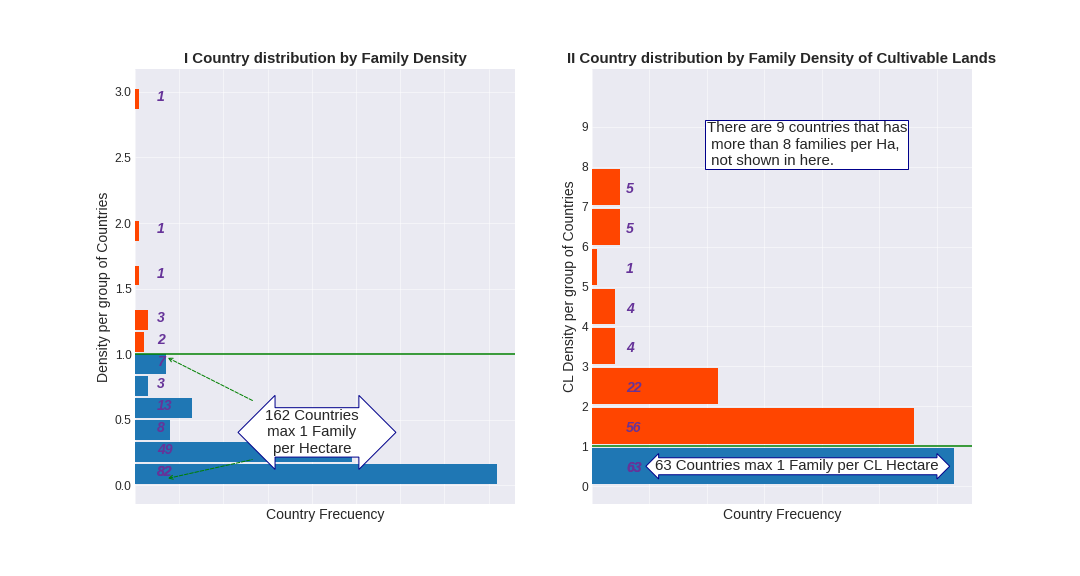
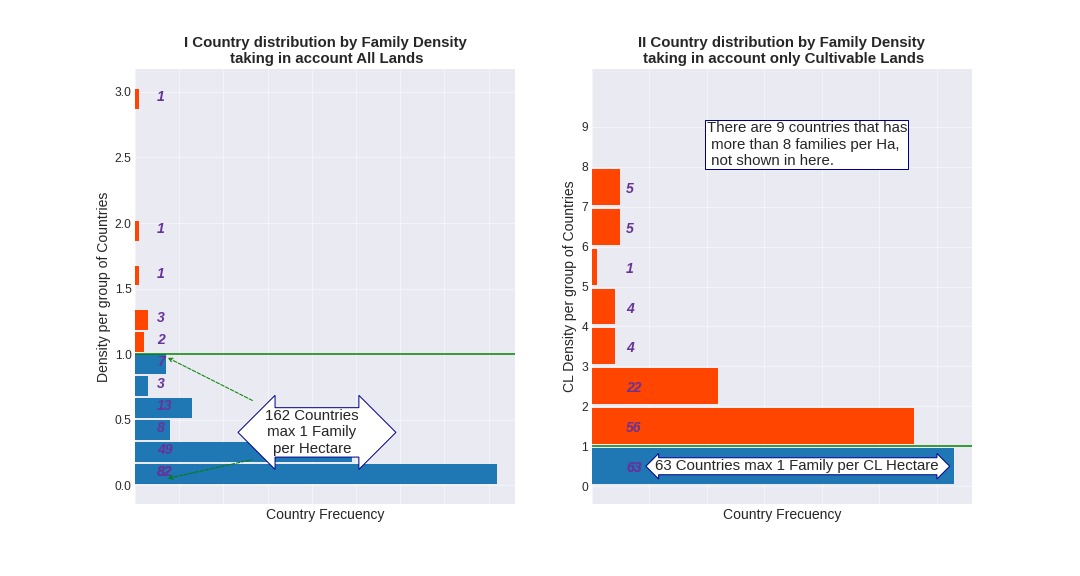
abs6

Changed region(s): [[0.5194, 0.0625, 0.9167, 0.125], [0.1528, 0.0625, 0.4278, 0.125]]

diff --git a/Abstract.md b/Abstract.md
@@ -9,22 +9,23 @@
     - Theories
     - Question
     - Facts
-        - CL% Distribution per country.
-        - Population Density and CL Density.
-        - HpF and Perm_indicator per geographic region.
+        - Cultivable Land (CL) Distribution per country.
+        - Population Density and Cultivable Land Density.
+        - Hectare per Family and Perm_indicator per geographic region.
         
     - Conclusions
+    - Annexes
   
 - **Objectives**
-    - To show the distribution of land suitable for cultivation (CL), according to the data taken from the [UN Data Bases](https://data.un.org/) (United Nations records); using the latitud and longitud data of the countries listed in the geopandas library.
-    - To use the Python libraries for handle/shape/extract/order the correspondent data used for this study.
+    - Show the distribution of land suitable for cultivation (CL), according to the data taken from the [UN Data Bases](https://data.un.org/) (United Nations records); using the latitud and longitud data of the countries listed in the geopandas library.
+    - Use the Python libraries for handle/shape/extract/order the correspondent data used for this study.
 
 - **Preliminary considerations**
-    - The study takes into account the data of 170 countries. The rest of them were neglected since there is not enough stadisted data.
+    - The study takes into account the data of 170 countries. The rest of them were neglected since there is not enough statistic data.
     - Missing data from the UN records was taken from the FAO (Food and Agriculture Organism); and therefore calculated (p.ex. percentages values) from complementary values for indicators defined in this study.
     - The land is classified in four groups, and some of them could be intersected. For the purpose of this study this is not considered. Each group is independent of any other.
     - This study neglects any food that could be obtained from permanent pastures and waterbodies present in an inland surface, like lakes, ponds or rivers. Hence, fishing activities and permanent grazing has not been taken into account.
-    - Since the main objective of the study is to show the graphic benefits and possible analyzes using python tools, it is HIGHLY RECOMMENDED to review other assessments performed by the FAO in order to acquire a better understanding of the subject. [FAO](http://www.fao.org/home/en/)
+    - Since the main objective of the study is to show the graphic benefits and possible analyzes using python tools, it is recommended to review other assessments performed by the FAO in order to acquire a better understanding of the subject. [FAO](http://www.fao.org/home/en/)
     
 - **Introduction**
     - The UN (United Nations) classifies the lands in five types:
@@ -80,25 +81,25 @@ For this, we defined three main indicators created for this study:
 |:----|:-----|:-----|:-----:|
 | 1 *Cultivables Lands (CL)*|Lands **already** intended to be <br>planted and doing grazing.|<img src="https://latex.codecogs.com/svg.latex?\Large&space;CL=AL+PC" title="CL" width='60%' height='60%'/>|Where<br> AL: Arable Lands <br>PC: Permanents Crops|
 | 2 *Permaculture Indicator (Perm_ind)*| Minimun amount of land needed <br>per family. **It's a fix value.**|<img src="images/PI.png" alt="PI" title="PI" width='40%' height='40%'/>|Ha (acronym for Hectare),<br> and it's a constant fixed reference value.|
-| 3 *Hectares per Family (HpF)*| Calculated CL land per family |<img src="https://latex.codecogs.com/svg.latex?\Large&space;HpF=\frac{CL}{Family}" title="HpF" width='60%' height='60%'/>|Where <br>CL: Cultivables Lands. <br>Family: generalized to 4 people group|
+| 3 *Hectares per Family (HpF)*| Calculated CL land per family |<img src="https://latex.codecogs.com/svg.latex?\Large&space;HpF=\frac{CL}{Family}" title="HpF" width='60%' height='60%'/>|Where <br>CL: Cultivables Lands. <br>Family: group of 4 people.|
 
 - **The facts**  
     
 The data about population and geographic coordenates is taken from the [geopandas](https://geopandas.org/) library wich is already classified by geographic region and country. <br>The data about land distributions was taken and processed from the United Nations statistics database [UNstatistics](https://data.un.org/).
 <br>And the data of the geographic world regions is taken from the [Cartopy pakages](https://scitools.org.uk/cartopy/docs/latest/).
 
-In the next table, there are showed the previous indicators for the the whole world.
+In the next table, there are showed the previous indicators for the whole world.
 
 Table 4. Indicator values.
     
 |About Population|About CL|Permaculture Indicator (Perm_ind)|
 |:--------:|:---------:|:---------:|
 |**There are aprox. <code style="color:red">1.8</code> milliards of <br>families in the whole world**.|**There are <code style="color:red">1.6</code> milliards of hectares of <br>Cultivable Lands.**|**There are <code style="color:red">0.87</code> Ha per Famlily in average, that's means <code style="color:red">0.13</code> Ha under the Perm_ind.**|
-|The world population is about seven milliards of people (7.354.181.594). Divided by families, we'll obtain<br> the stimated number of families (of 4) in entire world: <br><img src="https://latex.codecogs.com/svg.latex?\Large&space;Families=\frac{7.3^{9}}{4}=1.8^{9}" width='75%' height='75%' title="Families"/>|The absolutes values in thousand hectares of Cultivable Lands (CL) in the Earth are: <br><img src="https://latex.codecogs.com/svg.latex?\Large&space;CL=AL+PC" width='75%' height='75%' title="CL"/><br><img src="https://latex.codecogs.com/svg.latex?\Large&space;=1437111.05+165721.00\:Th\:Ha" width='75%' height='75%' title="HpF"/><br><img src="https://latex.codecogs.com/svg.latex?\Large&space;=1.6^{9}Ha" width='75%' height='75%' title="HpF"/>|In a world level, the quantity of Land per family in Hectares (HpF) is: <br><img src="https://latex.codecogs.com/svg.latex?\Large&space;HpF=\frac{1.6^{9}}{1.8^{9}}=0.8" width='75%' height='75%' title="HpF"/>|
+|The world population is about seven milliards of people (7.354.181.594). Divided by families, we'll obtain<br> the stimated number of families (of 4) in entire world: <br><img src="https://latex.codecogs.com/svg.latex?\Large&space;Families=\frac{7.3^{9}}{4}=1.8^{9}" width='75%' height='75%' title="Families"/>|The absolutes values in thousand hectares of Cultivable Lands (CL) in the Earth are: <br><img src="https://latex.codecogs.com/svg.latex?\Large&space;CL=AL+PC" width='75%' height='75%' title="CL"/><br><img src="https://latex.codecogs.com/svg.latex?\Large&space;=1437111.05+165721.00\:Th\:Ha" width='75%' height='75%' title="HpF"/><br><img src="https://latex.codecogs.com/svg.latex?\Large&space;=1.6^{9}Ha" width='75%' height='75%' title="HpF"/>|In a world level, the quantity of Land per family in Hectares (HpF) is: <br><img src="https://latex.codecogs.com/svg.latex?\Large&space;HpF=\frac{1.6^{9}}{1.8^{9}}=0.87" width='75%' height='75%' title="HpF"/>|
 
 <b>CL% Distribution per country.</b>
 
-As it's predictable, this distribution varies for every world region and country. Since every country has a different land area, the best way to compare this indicator between differents countries is to use the relative value of cultivable lands(CL); this means, the percentage of CL per country (CL%), as is showed in the next map.<a href="code_images/CL.ipynb" target="_blank">(code from the image)</a>
+As it's predictable, this distribution varies for every world region and country. Since every country has a different land area, the best way to compare this indicator between differents countries is to use the relative value of cultivable lands(CL); this means, the percentage of CL per country (CL%), as it is shown in the next map.<a href="code_images/CL.ipynb" target="_blank">(code from the image)</a>
 
 Figure II. World map of CL%.
 
@@ -125,12 +126,12 @@ An overall view show us that:
 
 It's important to notice that the CL% of each country has <b>no direct relation with the geographic region where they belong</b>; even in countries that may have the same climate characteristics, this percentage could strongly variate. Therefore, it'll be neccessary to search more information about the specific political/economical/historic situation of every country for probably understand this differences; out of the objective of this abstract.
     
-But knowing the country percentage CL takes meaning only if it’s related with the population.
+But knowing the country percentage CL make sense only if it’s related with the population.
 
 <b>Population Density and CL Density.</b>
 
 As we know, there is a relation between the population and the land area of the country; and it's not a constant one. This means, the density of the population could totally differ in countries with the same area.
-In the next histogram charts, this concept it's applied to every country, but relative to the Cultivable Lands. 
+In the next histogram charts, this concept is applied to every country, but relative to the Cultivable Lands. 
 
 In equation mode:
 
@@ -142,48 +143,47 @@ In equation mode:
 
 Let’s see how is this distribution per country/region.
 
-Figure IV. Density population and Density population repect CL.
+Figure IV. Density population and Density population respect to CL.
 <br><a href="code_images/hist_dens.ipynb">(code from the histograms below)</a>
 
 <img src="images/hist_dens.png" alt="hist_dens" title="hist_dens"/>
     
 
 
-In both histograms, there is a green line at the Y-axis level of 1 . This is the chosen reference value and means 1 Family per 1 Hectare (Perm_indicator).
+In both histograms, there is a green line at the Y-axis level of 1.
 
-The Y-axis represents the Family density per Ha, and the X-axis the number of accumulate countries; then, the purple numbers over the bars are the closter of countries for an specific 'y' range.
+The Y-axis represents the Family density per Ha, and the X-axis the number of accumulate countries; then, the purple numbers over the bars are the number of countries for an specific 'y' range.
 
-This means, that all the countries that are under the 1 Y-axis reference, has less that 1 family per Ha. According to the Permaculture Theory, is the best case. As this indicator grows over 1, the CL land is not enough for the theory requirements.
+This means, that all the countries that are under the 1 Y-axis reference, has less that 1 family per Ha. According to the Permaculture Theory, this is the best case. As this indicator grows over 1, the CL land is not enough for the theory requirements.
 
 In the case of the left histogram, this reference (1 Y-axis) is put in order to have an idea of the family density referenced to the entire land per country. In the right one, it has to be taken as the Perm_indicator, because the family density is calculated according the country Cultivable Lands.
 
-Hence, for both histogram is taken that:
-<br>- In the left one, there are 161 countries under the 1 Y-axis reference. So, even if it's taken all the contry land for Cultivable purposes, there are 9 countries heavely populated; that has not even 1 Ha per family. This 161 represent the 95% of the world countries.
-<br>- From the right one, there are just 63 countries that has at max 1 family per CL in Hectare, this are 37% of the world countries.
+Hence, for both histogram, it is noticed that:
+<br>- In the left one, there are 161 countries under the 1 Y-axis reference. So, even if it's taken all the country land for Cultivable purposes, there are 9 countries heavely populated; that has not even 1 Ha per family. This 161 represent the 95% of the world countries.
+<br>- From the right one, there are 63 countries that has no more than 1 family per CL in Hectare, this are 37% of the world countries.
 <br>- It could be thought that there is enough land per country that could be used for Cultivable purposes, but it's important to have in mind that <b>it's impossible to use all the country land for Cultivable purpouses </b>for many reasons: p.ex. geographical ones (there are mountains, deserts, swamps that makes impossible to be used for this), there are urban areas and industries necessary to sustain the development of the country, etc.
 
-If we zoom in the countries (down histogram of Family Density by CL), we see that from this 63 countries in the world that are under the limit of the Perm_ind: 
+Let's zoom in the 63 countries that are under the limit of the Perm_ind (histogram below of Family Density by CL).
 
 Figure V. Density population of CL.
 <br><a href="code_images/hist_dens_CL.ipynb" target="_blank">(code from the histogram below)</a>
 <img src="images/hist_dens_CL.png" alt="hist_dens_CL" title="hist_dens_CL"/>
 
-It can be taken that:
-- 9 countries (5% of the total country world) has max 0.33 Families per Ha. See next graph.
+From this we can see that:
+- 9 countries (5% of the total country world) has max 0.33 Families per Ha. This means, that it would be possible to have two more families per Hectare that they have; as it's shown in the next figures.
     <img src="images/example_fam.png" alt="example_fam" title="example_fam" width=70% height=70%/>
     
-- Consequentelly, 20 countries (17%), between 0.33 and 0.67Ha; and finally 34 countries (37%), between 0.67Ha and 1Ha. 
-- This is, <b> just the 37% of the countries has at least 1Ha per Family</b>.
+- 20 countries (17%), between 0.33 and 0.67Ha; and finally 34 countries (37%), between 0.67Ha and 1Ha. 
+- <b> Just 37% of the world countries has at least 1Ha per Family</b>.
 
 <b>HpF and Perm_indicator per geographic region.</b>
 
-<i>Note: Notice tha HpF (Hectares per Family) is inversely proportional to CL Density (Families per Hectare).
-The previous analysis was related to CL Density, from here on it'll talk about HpF.</i>
+<i>Note: Notice that HpF (Hectares per Family) is inversely proportional to CL Density (Families per Hectare).
+The previous analysis was related to CL Density, from here on the main subject will be HpF.</i>
 
-Finally, it's exposed the HpF referenced to the Per_indicator. This means, the Cultivable Lands per Family, referenced to 1Ha, distributed per geographic region and per country. 
+Next is exposed the HpF referenced to the Perm_indicator. This means, the Cultivable Lands per Family, referenced to 1Ha, distributed per geographic region and per country. 
 
-
-For the netx charts, the Geografich Region division will be used. This division groups the countries in 8 regions:
+For the next charts, the Geographic Region division will be used. This division groups the countries in 8 regions:
 
 Figure VI. Regions World Map.
 <table>
@@ -201,9 +201,9 @@ Figure VI. Regions World Map.
 </tbody>
 </table>
 
-To show the HpF of every country per region, it's used barplot. For each region – represented by differents colors -  there are bars over and under the y-axis reference : 1 Ha (Perm_ind).
+To show the HpF of every country per region, it's used a barplot. For each region – represented by differents colors -  there are bars over and under the y-axis reference : 1 Ha (Perm_ind).
 
-All the countries that are over the reference, have 1 or more Ha per family. For example, Australia (bars in light blue first to the left) has a bit more than 8 Ha per family; Kazakhstan a bit more than 6 ,and Canada ans South Sudan (S. Sudhan) just over 5 and 4 respectively. 
+All the countries that are over the reference, have 1 or more Ha per family. For example, Australia (bars in light blue first to the left) has a bit more than 8 Ha per family; Kazakhstan a bit more than 6, Canada and South Sudan (S. Sudhan) just over 5 and 4 respectively. 
 
 Additionally,  a small square per region is added with two numbers. This is the quantity of countries over (up-arrow) and under (down-arrow) this reference, per region <a href="code_images/ha_ref_w.ipynb" target="_blank">(code from the barplot below)</a>.
 
@@ -211,33 +211,32 @@ Additionally,  a small square per region is added with two numbers. This is the 
 
 <img src="images/ha_ref_w.png" alt="ha_ref" title="ha_ref"/>
 
-
-Consider that the values under the 1Ha reference, means the quantity of land per country needed to reach the Perm_ind.
+There are countries under and over the 1Ha. The ones that are over has more than the minimun land required to accomplish the theory; the others, are lacking lands.
 
 From this last histogram, it's noticed that:
 - Every region has a different behavior; there is no regular distribution by geographic region. 
-- There are some region with nearly half of the countries over the Perm_ind, like Europe & Central Asia and Sub-Saharan Africa. But due the fact that <b>all the countries of the same region has no the same land area and neither the same population</b>, it has no sense to think about a land redistribution in order to make all it's countries to reach the Perm_ind.
+- There are some region with nearly half of the countries over the Perm_ind, like Europe & Central Asia and Sub-Saharan Africa. But due to the fact that <b>all the countries of the same region doesn't have the same land area and neither the same population</b>, it has no sense to think about a land redistribution in order to make all the countries to reach the Perm_ind.
 - The South Asia region has no countries over the 1 Ha reference.
-- The higher value is in Australia, from Est Asia and Pacific, that has almost 8HpF. This region has the most noticed difference between their countries.
+- The higher value is in Australia, from Est Asia and Pacific, that has almost 8HpF. This region has the most noticeable difference between their countries.
 
-The next stacked barplot will help us to see the percentage of countries related to the Perm_ind, divided by Geographic Region.
+The next stacked barplot will help us see the percentage of countries related to the Perm_ind, divided by Geographic Region.
 
 
 
 <table>
 <tbody>
-<tr style='background-color:white'><td style="text-align:justify; font-size:14px; line-height: 1.5em">Figure IIX. Porcentual distribution of HpF per region.
+<tr style='background-color:white'><td style="text-align:justify; font-size:14px; line-height: 1.5em">Figure IIX. Percentage distribution of HpF per region.
 <br><a href="code_images/HpF_bars_w.ipynb" target="_blank">(code from the table below)</a>
-<img src="images/HpF_bars_w.png" alt="HpF_bars_w" width='4000px' height='400px'/></td><td style="text-align:justify; font-size:14px; line-height: 1.5em">The green bars represents the percentage of countries that has more than 1 HpF; in orange, less. As it's saw, most of them has less than the Permaculture requirement; there is just one region that is over to this value: North America. Europe & Central Asia and Sub-Saharan Africa has almost half of this countries over, followed in descending order by Latin America & Caribbean, East Asia & Pacific, Middle East & North Africa and finally South Asia.
+<img src="images/HpF_bars_w.png" alt="HpF_bars_w" width='4000px' height='400px'/></td><td style="text-align:justify; font-size:14px; line-height: 1.5em">The green bars represents the percentage of countries that has more than 1 HpF; in orange, less. As it is visible, most of them has less than the Permaculture requirement; there is just one region that is over to this value: North America. Europe & Central Asia and Sub-Saharan Africa has almost half of this countries over, followed in descending order by Latin America & Caribbean, East Asia & Pacific, Middle East & North Africa and finally South Asia.
 
 <br>
 
 - <b>Conclusions</b>:
     
     - How much land suitable for cultivation (CL) do we actually have in the Earth per human being?: 
-        - 0.8 Hectare per Family.
+        - 0.87 Hectare per Family.
     
-    - Making a huge and general calcule, the world needs 0.13 HpF to reach the minimun ammount of CL according to the chossen theory. This is equivalent to <img src="https://latex.codecogs.com/svg.latex?\Large&space;235^{6}Ha\:=0.2^{9}Ha" width="25%" height="25%" title="need"/>
+    - Making a huge and general calculus, the world needs 0.13 HpF to reach the minimun amount of CL according to the chosen theory. This is equivalent to <img src="https://latex.codecogs.com/svg.latex?\Large&space;235^{6}Ha\:=0.2^{9}Ha" width="25%" height="25%" title="need"/>
     - If we know that the total earth land is <img src="https://latex.codecogs.com/svg.latex?\Large&space;1.3^{10}Ha" width="15%" height="15%" title="earthsup"/> This missing value represent just the <code style="color:red">1.8%</code> of the earth land surface.</td>
 </tr>
 </tbody>
@@ -245,9 +244,9 @@ The next stacked barplot will help us to see the percentage of countries related
 
    - From the data, there is just 78% of the land classified (AL – 11%, PC – 1.3%, FC - 30.6% and IB - 35.1%). Theorically, it’ll be possible to take the 1.8% missing land from this 22% of unclassified land. We cannot forget the urban development; but according to differents sources (f. ex.,[ourworldindata.org](https://ourworldindata.org/urbanization), [newgeography.com](https://www.newgeography.com/content/001689-how-much-world-covered-cities)), there is no more that 2.7% of the earth land used for it. Hence, noticing this last value, there will be still around 19% of unclassified land.
        
-   - There are many others factors involved in the CL assing for every country that are not contemplate in this abstract, like seasonal variation due geographic location, geographic topology … etc. All this conditions are possible subjects for future studies.
+   - There are many others factors involved in the CL assigned for every country that are not contemplated in this abstract, like seasonal variation due to geographic location, geographic topology … etc. All this conditions are possible subjects for future studies.
    
-   - It would be usefull to know if it's possible, per region, to reach the Perm_indicator by land redistribution. But without it, it could be possible to consider the world as an unity, that can distribute it's resources equitably, with no need of territorial reordering.
+   - It would be useful to know if it's possible, per region, to reach the Perm_indicator by land redistribution. But without it, it could be possible to consider the world as an unity, that can distribute its resources equitably, with no need of territorial reordering.
 
 
 
